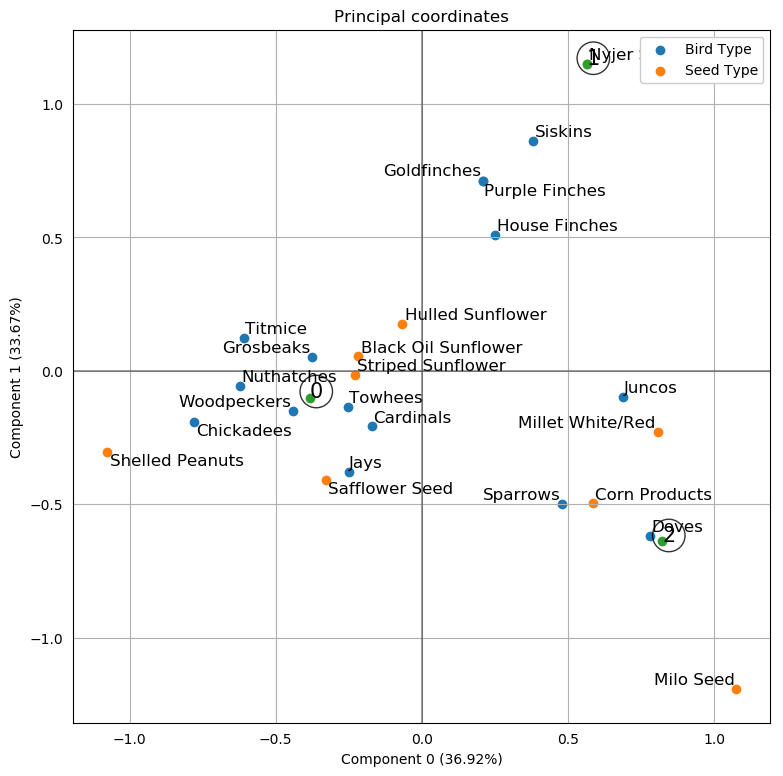
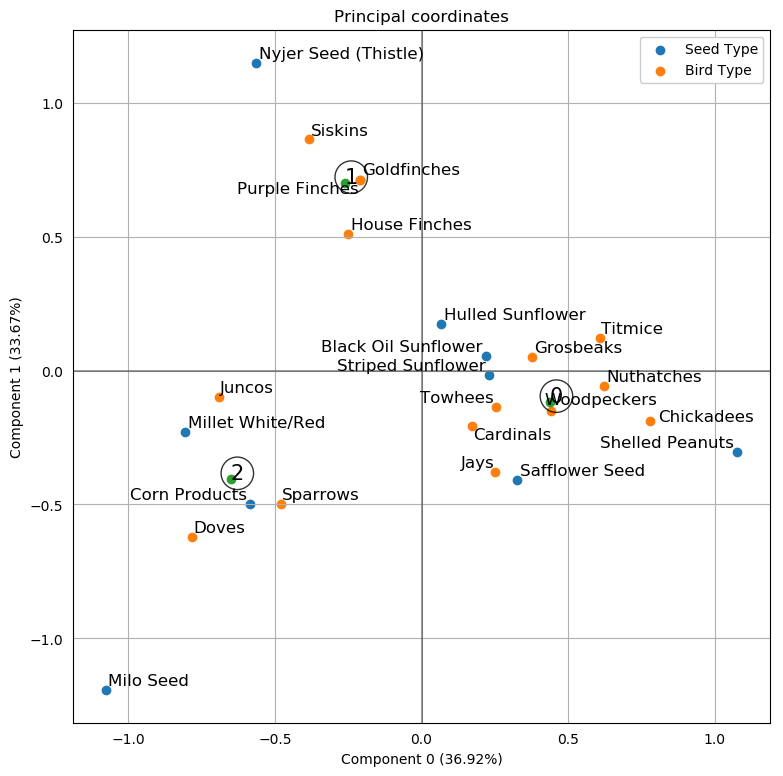
Clustering in both directions using transposed labels

diff --git a/birdseeds_prince.py b/birdseeds_prince.py
@@ -13,7 +13,6 @@ data = pd.read_csv('./birdseed.csv', sep = ',', header = 0, index_col = 0)
 
 data.columns.rename('Bird Type', inplace = True)
 data.index.rename('Seed Type', inplace = True)
-data = data.transpose()
 
 #Correspondence Analysis using the prince library
 ca = prince.CA(n_components = len(data), n_iter = 3, copy = True, engine = 'auto')
@@ -36,6 +35,9 @@ kmeans = KMeans(n_clusters = n_clusters)
 kmeans = kmeans.fit(ca.column_principal_coordinates()[[0, 1]])
 labels = kmeans.predict(ca.column_principal_coordinates()[[0, 1]])
 centroids = kmeans.cluster_centers_
+
+#Make labels for the transposed variables so we can do full segmentation
+labels_T = kmeans.predict(ca.row_principal_coordinates()[[0, 1]])
 
 ax = ca.plot_principal_coordinates(show_col_labels = False, show_row_labels = False)
 ax.get_figure().set_size_inches(9, 9, forward = True)
@@ -64,14 +66,7 @@ plt.show(False)
 #Now I know which seeds go in which cluster
 #Let's make an automated heat map of seed/bird clusters
 fig = plt.figure()
-
-#fig.set_size_inches(len(list(data)), len(data), forward = True)
 fig.set_size_inches(6, len(data) / len(list(data)) * 6.0, forward = True)
-
-#if (data.columns.name == 'Bird Type'):
-#    fig.set_size_inches(14, 6, forward = True)
-#else:
-#    fig.set_size_inches(9, 6, forward = True)
 
 #Now make the n_cluster number of subplots
 #I want to order them in decreasing size (number of elements per cluster)
@@ -92,7 +87,7 @@ total = 0
 for cluster in sorted(labeldict, reverse = True):
     i = labeldict[cluster]
     z = [] #The cluster's data
-    for j in range(0, len(data.keys())):
+    for j in range(0, len(data.columns)):
         if (labels[j] == i):
             z.append(j)
     #ax = fig.add_subplot(1, n_clusters + 1, iteration + 1)
@@ -116,12 +111,11 @@ for cluster in sorted(labeldict, reverse = True):
     ax.grid(which = 'minor', axis = 'both', color = 'w', linestyle = '-', linewidth = 2)
 
 #Let's make our own legend as a subplot
-#ax = fig.add_subplot(1, n_clusters + 1, n_clusters + 1)
-ax = fig.add_subplot(grid[n_clusters])#[:, 3])
+ax = fig.add_subplot(grid[n_clusters])
 m = np.zeros((1, 4))
 for i in range(4):
     m[0, i] = 100.0 - (i * 4) / 100.0 #No idea why it's (i * 4) / 100
-plt.imshow(np.transpose(m), aspect = "auto")#4)
+plt.imshow(np.transpose(m), aspect = "auto")
 ax.tick_params(axis = 'both', which = 'major', labelsize = 12)
 ax.yaxis.tick_right()
 plt.yticks(range(4), range(3, -1, -1))
@@ -129,6 +123,70 @@ plt.tick_params(axis = 'x', which = 'both', bottom = False, top = False, labelbo
 plt.title('Legend', fontsize = 12)
 
 #Adjust the subplot separations
-#plt.subplots_adjust(left = 0.2, wspace = 0.0)
 plt.savefig('%s Clusters Matrix.%s' % (data.columns.name, pic_type), format = 'png', bbox_inches = 'tight')
 plt.show(False)    
+
+#Now let's make a full segmented subplot for clusters in both axes
+#This is n_cluster by n_cluster, which is bad because one cluster might have
+#zero of one dimension or dimension_T in it
+#This is therefore not the generalized implementation
+
+#Get the cluster data for the transposed data
+unique, counts = np.unique(labels_T, return_counts = True)
+labeldict_T = dict(zip(counts, unique))
+
+fig = plt.figure()
+fig.set_size_inches(6, len(data) / len(list(data)) * 6.0, forward = True)
+
+#Set up my set of axes
+ax = []
+for i in range(0, n_clusters):
+    for j in range(0, n_clusters):
+        ax.append(fig.add_subplot(n_clusters, n_clusters, i * n_clusters + j + 1))
+
+iteration = 0
+iteration_total = 0
+for cluster in sorted(labeldict, reverse = True):
+    i = labeldict[cluster]
+    z = [] #The cluster's data
+    for j in range(0, len(data.columns)):
+        if (labels[j] == i):
+            z.append(j)
+            
+    iteration_T = 0
+    for cluster_T in sorted(labeldict_T, reverse = True):
+        i_T = labeldict_T[cluster_T]
+        z_T = [] #The cluster's transposed dimension data
+        for j_T in range(0, len(data.index)):
+            if (labels_T[j_T] == i_T):
+                z_T.append(j_T)
+                
+        print(i, i_T, iteration)
+        print(z_T)
+        iteration_total = iteration_T * n_clusters + iteration
+        
+        ax[iteration_total] = fig.add_subplot(n_clusters, n_clusters, iteration_total + 1)
+        ax[iteration_total].tick_params(axis = 'both', which = 'major', labelsize = 12)
+        cax = ax[iteration_total].matshow(data.loc[data.index[z_T[:]], data.columns[z[:]]], aspect = "auto")#aspect = "equal")
+        if(iteration_T == 0):
+            plt.xticks(range(len(z)), list(data[data.columns[z[:]]]), rotation = 30, ha = 'left')
+        else:
+           plt.xticks([], [])
+        if(iteration == 0):
+            plt.yticks(range(len(data.index[z_T[:]])), data.index[z_T[:]], rotation = 30)
+        else:
+            #I want a shared y-axis
+            plt.yticks([], [])
+        iteration_T += 1
+
+    iteration += 1
+    
+        #Add white lines separating each value via gridlines
+        #The gridlines go off the minor axes
+        #Also, don't overwrite the boundary of the plot with white lines
+        #ax.set_yticks(np.arange(0.5, len(data.index) - 1, 1), minor = True)
+        #ax.set_xticks(np.arange(0.5, len(z) - 1, 1), minor = True)
+        #ax.grid(which = 'minor', axis = 'both', color = 'w', linestyle = '-', linewidth = 2)
+
+plt.savefig('Segmented Clusters Matrix.%s' % pic_type, format = 'png', bbox_inches = 'tight')
+plt.show(False)  
